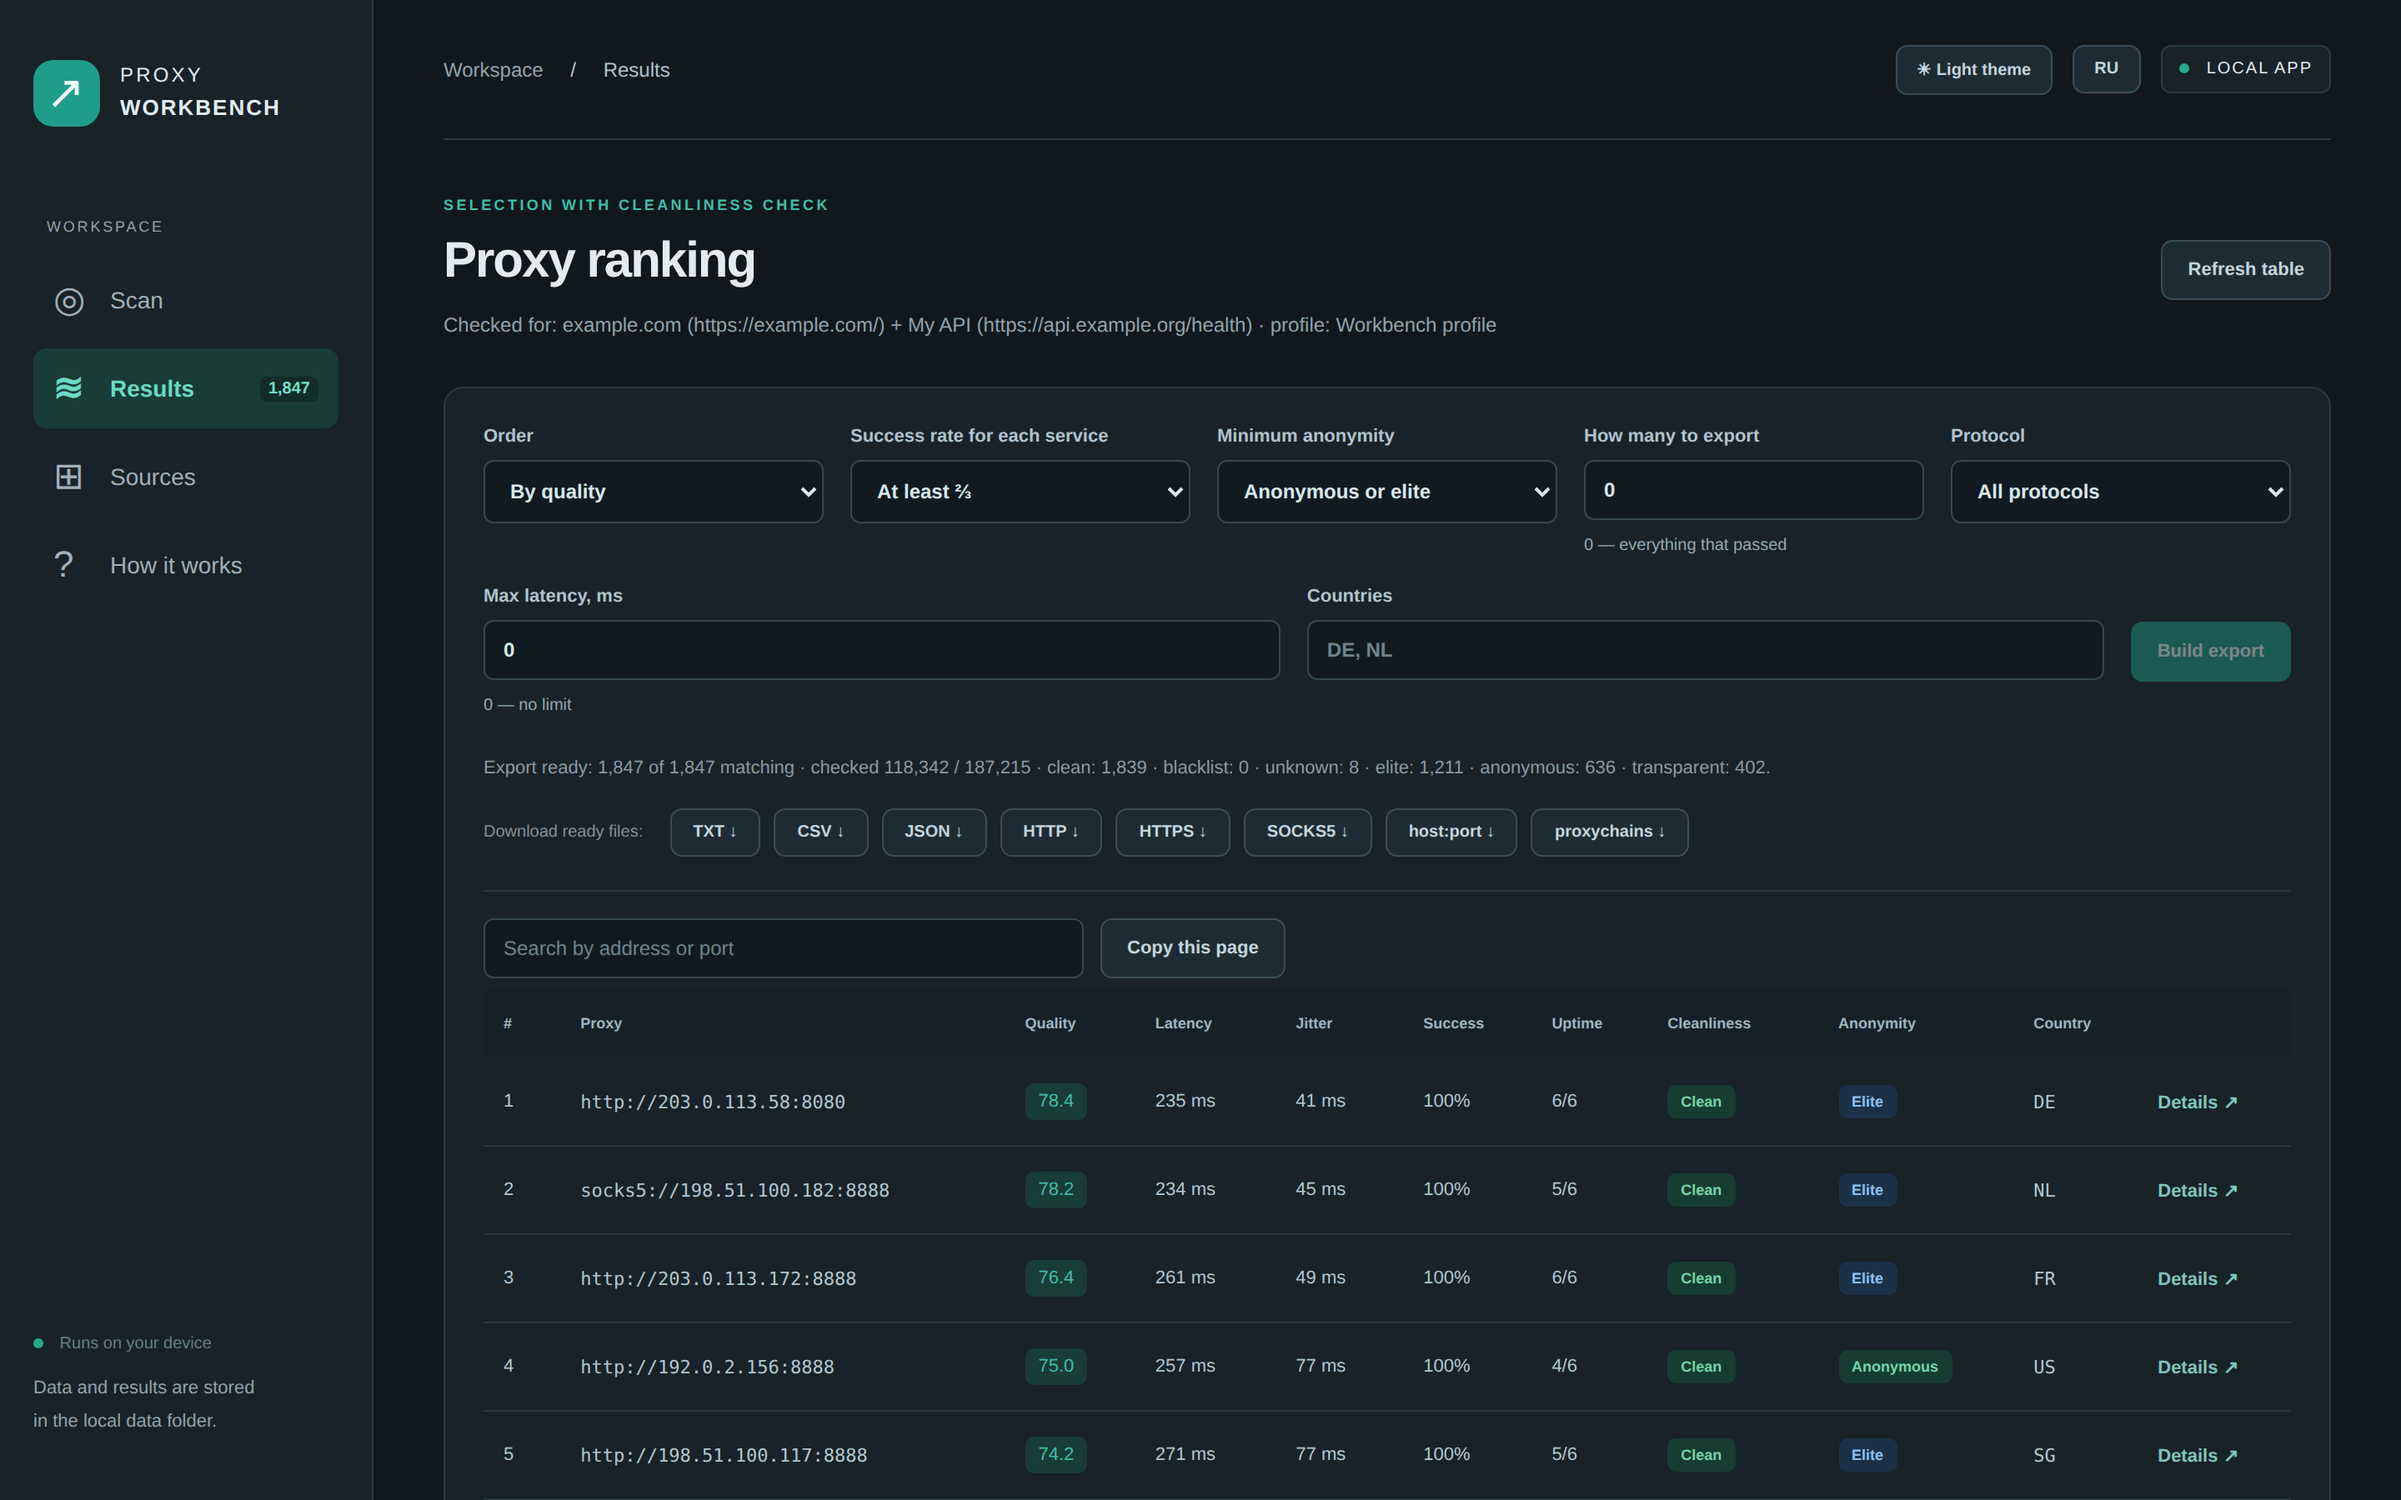
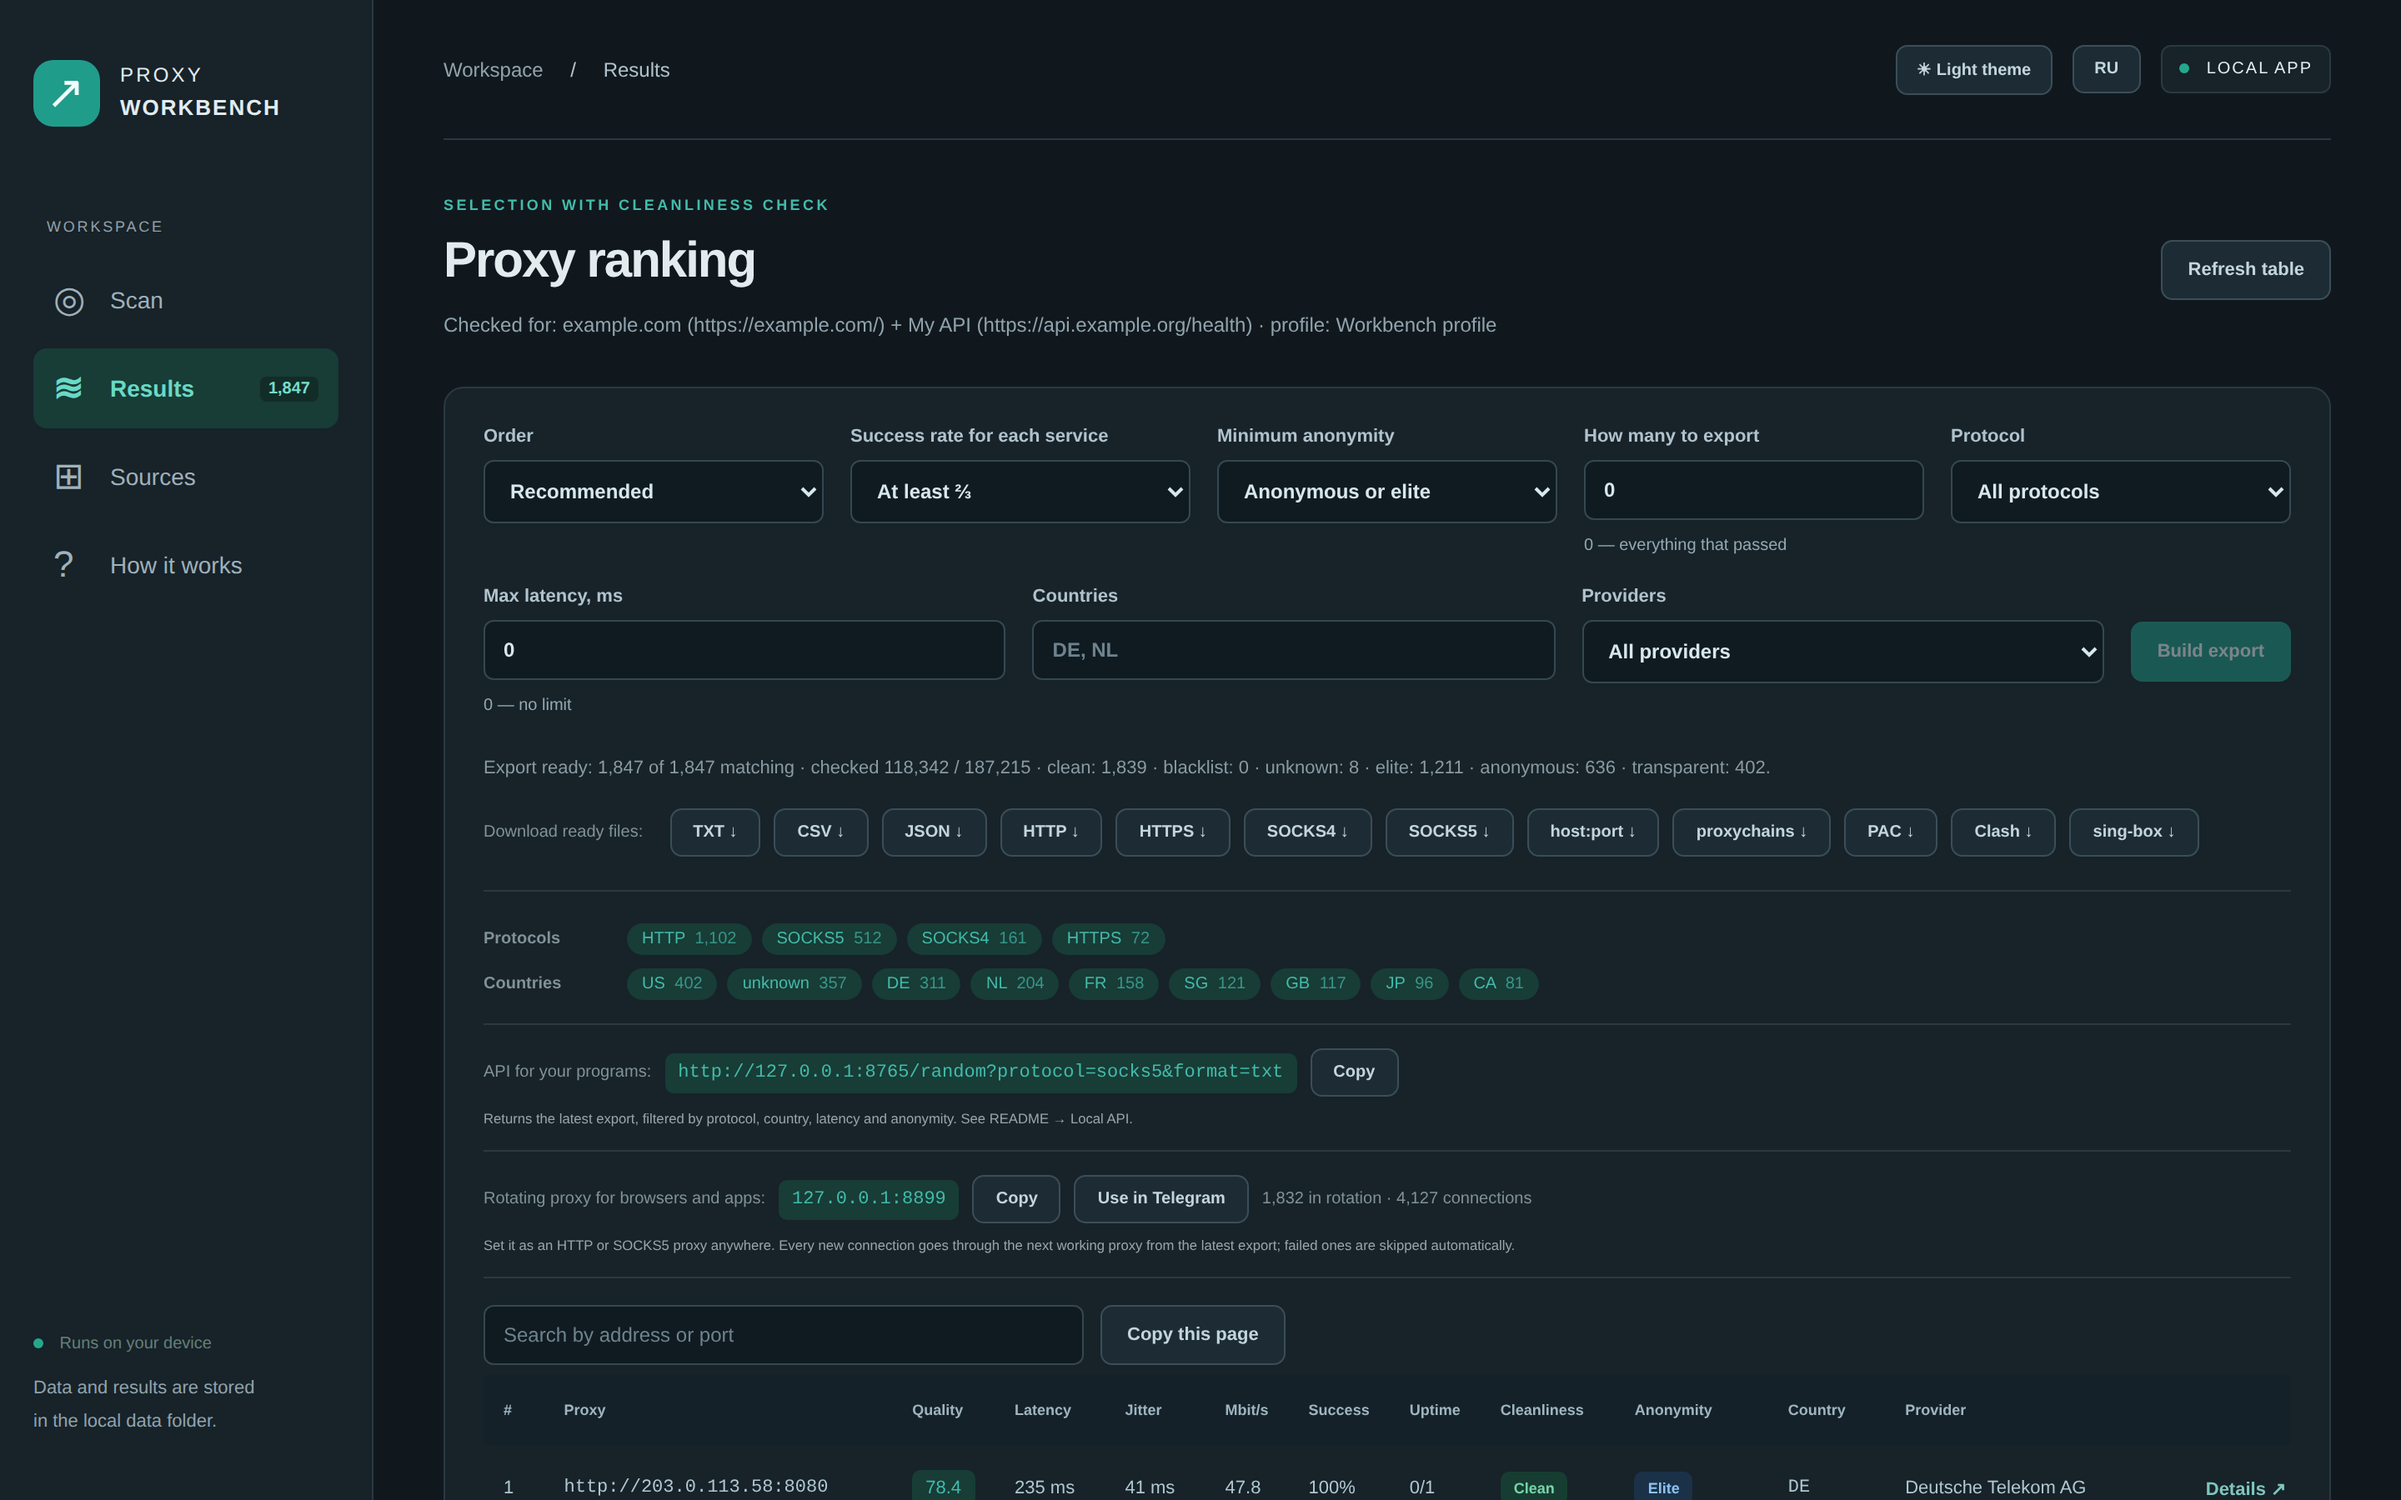
Refresh screenshots and landing page for 2.2
Screenshots (EN and RU, synthetic documentation-range data) show the
recommended order, Mbit/s and Provider columns, the protocol/country
summary, the API line and the rotating proxy with its Telegram button.

Claude-Session: https://claude.ai/code/session_01Y2BXTaNwMeXkUgwaFmRD81

diff --git a/docs/index.html b/docs/index.html
@@ -81,6 +81,9 @@ footer{padding:56px 0 40px;color:var(--muted);font-size:14px;display:flex;flex-w
       <div class="card"><h3>Ranked by real speed</h3><p>Several attempts per service, median latency, jitter and success rate combined into one quality score.</p></div>
       <div class="card"><h3>Big lists, stop &amp; resume</h3><p>Bounded worker queue and rate limiter, tested with 190,000 candidates. Progress lives in SQLite, so stopping never loses work.</p></div>
       <div class="card"><h3>Ready-to-use exports</h3><p>TXT, CSV, JSON plus <code>http.txt</code>, <code>https.txt</code>, <code>socks5.txt</code> in plain <code>host:port</code> format for your scraper or browser.</p></div>
+      <div class="card"><h3>Recommended first</h3><p>Fast proxies that survive re-checks, come from lists with a good record and appear in few lists go to the top: less crowded, so they live longer.</p></div>
+      <div class="card"><h3>Real speed and provider</h3><p>Optional speed test in Mbit/s; every proxy shows its provider, and hosting or data-centre ranges can be skipped.</p></div>
+      <div class="card"><h3>Built for scrapers</h3><p>Pick country, protocol and a sticky session in the proxy user name: <code>country-de-session-1</code>. Or script it: <code>proxy-workbench get --top 5</code>.</p></div>
       <div class="card"><h3>Rotating proxy gateway</h3><p>Point a browser, Telegram or any app at <code>127.0.0.1:8899</code>: every connection goes out through the next working proxy, dead ones are skipped.</p></div>
       <div class="card"><h3>Local API for your code</h3><p><code>GET /random?protocol=socks5&amp;country=DE</code> returns a fresh working proxy, so scripts and bots pick one with a single request.</p></div>
     </div>
